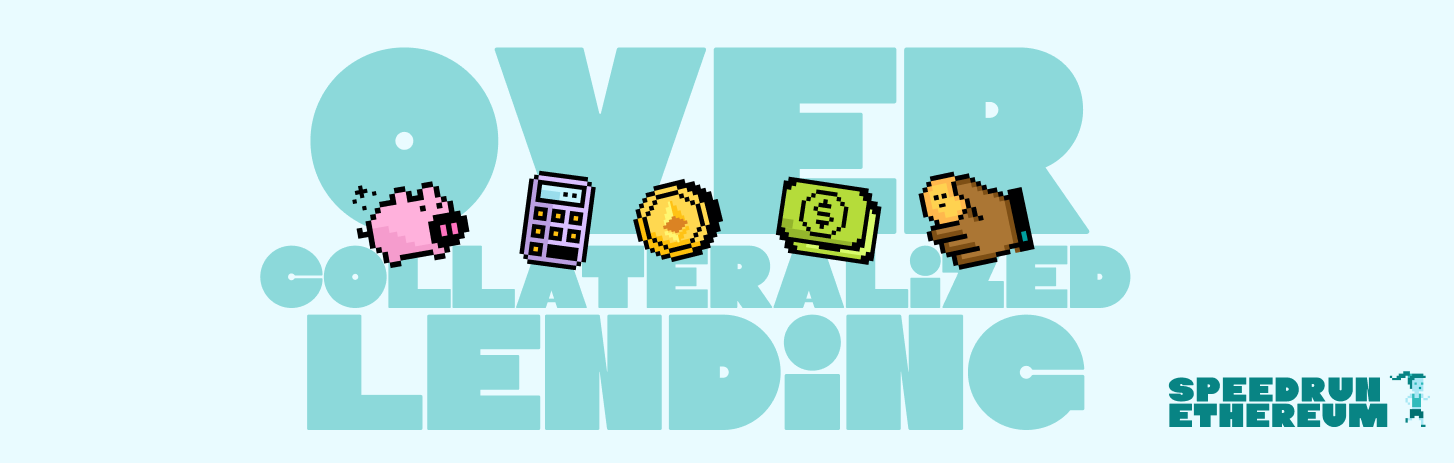
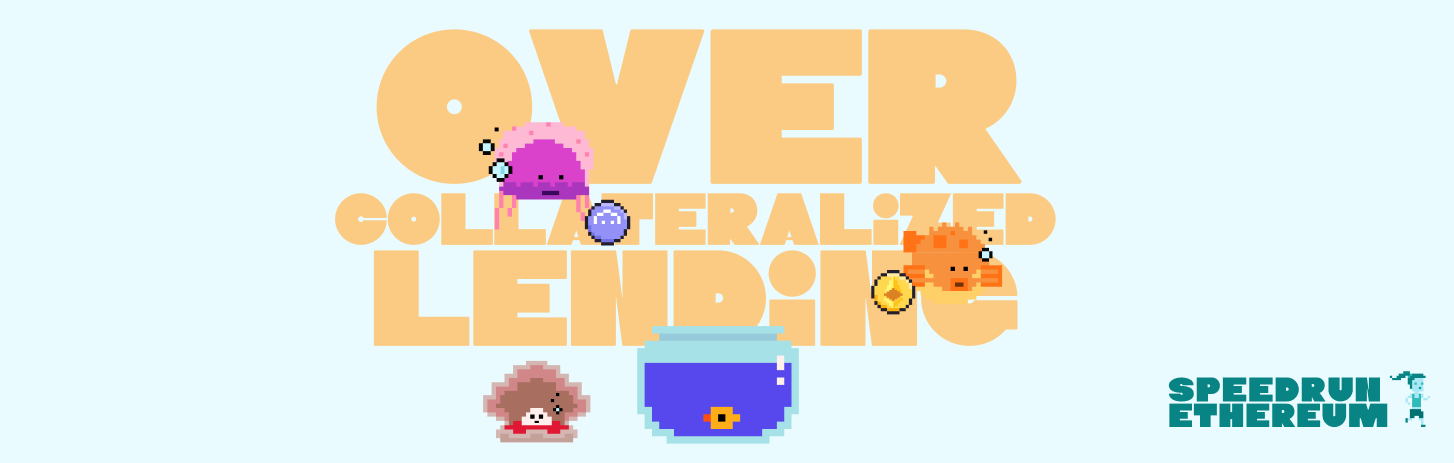
update version and images

diff --git a/README.md b/README.md
@@ -40,7 +40,7 @@ Deploy your contracts to a testnet then build and upload your app to a public we
 📥 Then download the challenge to your computer and install dependencies by running:
 
 ```sh
-npx create-eth@0.2.1 -e challenge-over-collateralized-lending challenge-over-collateralized-lending
+npx create-eth@0.1.8 -e scaffold-eth/se-2-challenges:challenge-over-collateralized-lending challenge-over-collateralized-lending
 cd challenge-over-collateralized-lending
 ```
 
